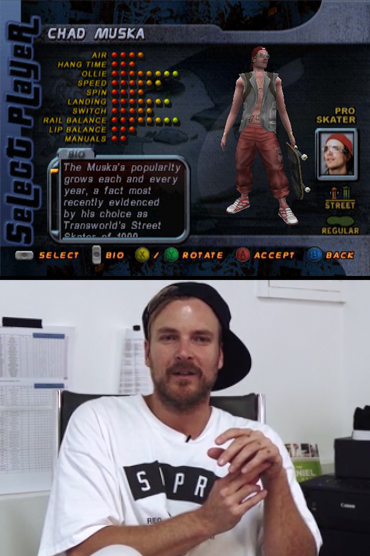
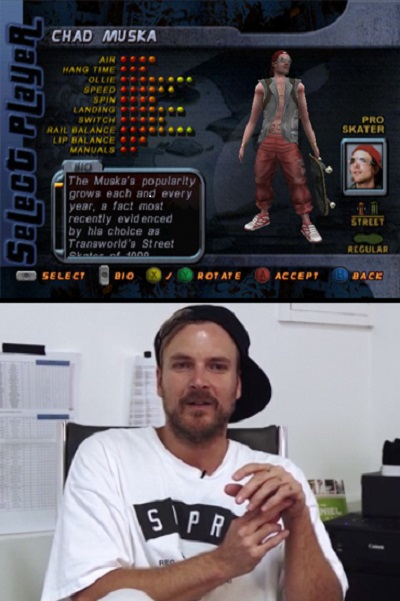
scaling

diff --git a/assets/javascript/app.js b/assets/javascript/app.js
@@ -75,9 +75,8 @@ var game = {
     showImage: function (index) {
 
         console.log(questions);
-        var img = $('<img >');
+        var img = $("<img class='img-responsive'>");
         img.attr("src", questions[index].image);
-
         $("#image").append(img);
     },
     nextQuestion: function () {
